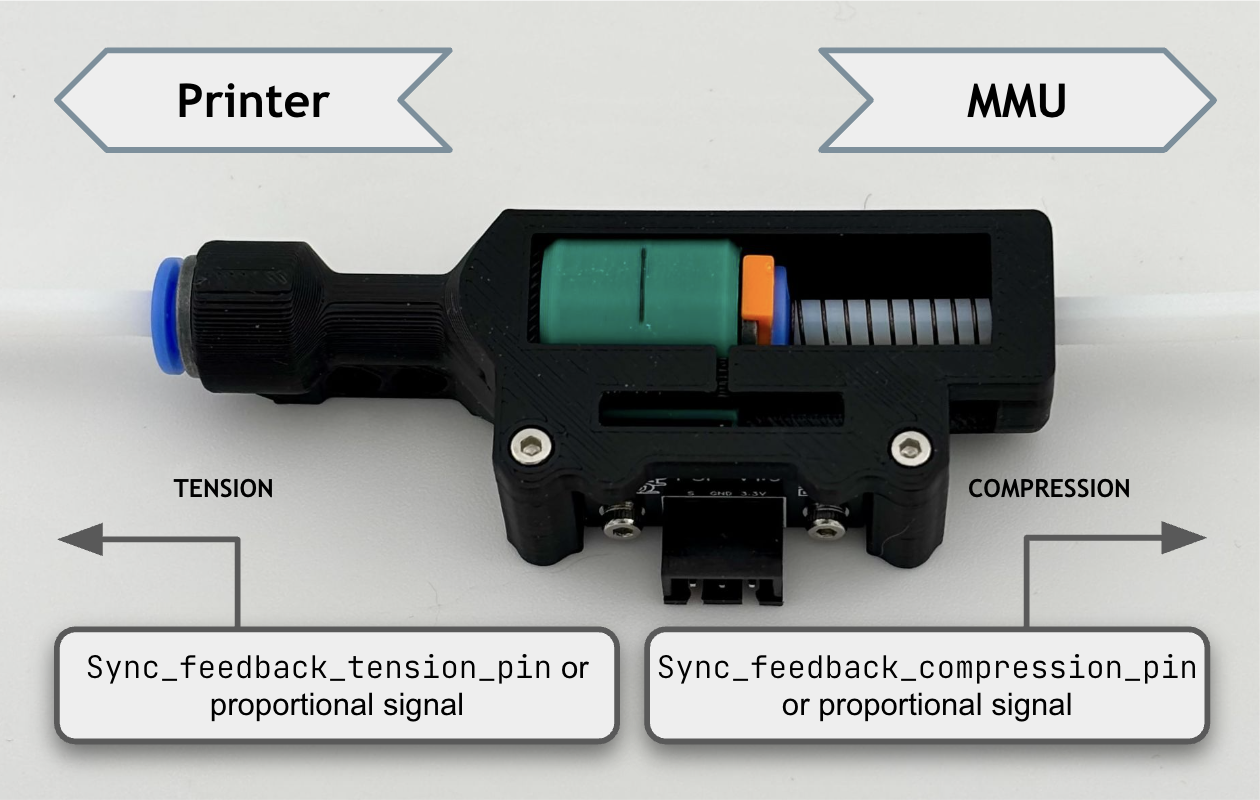
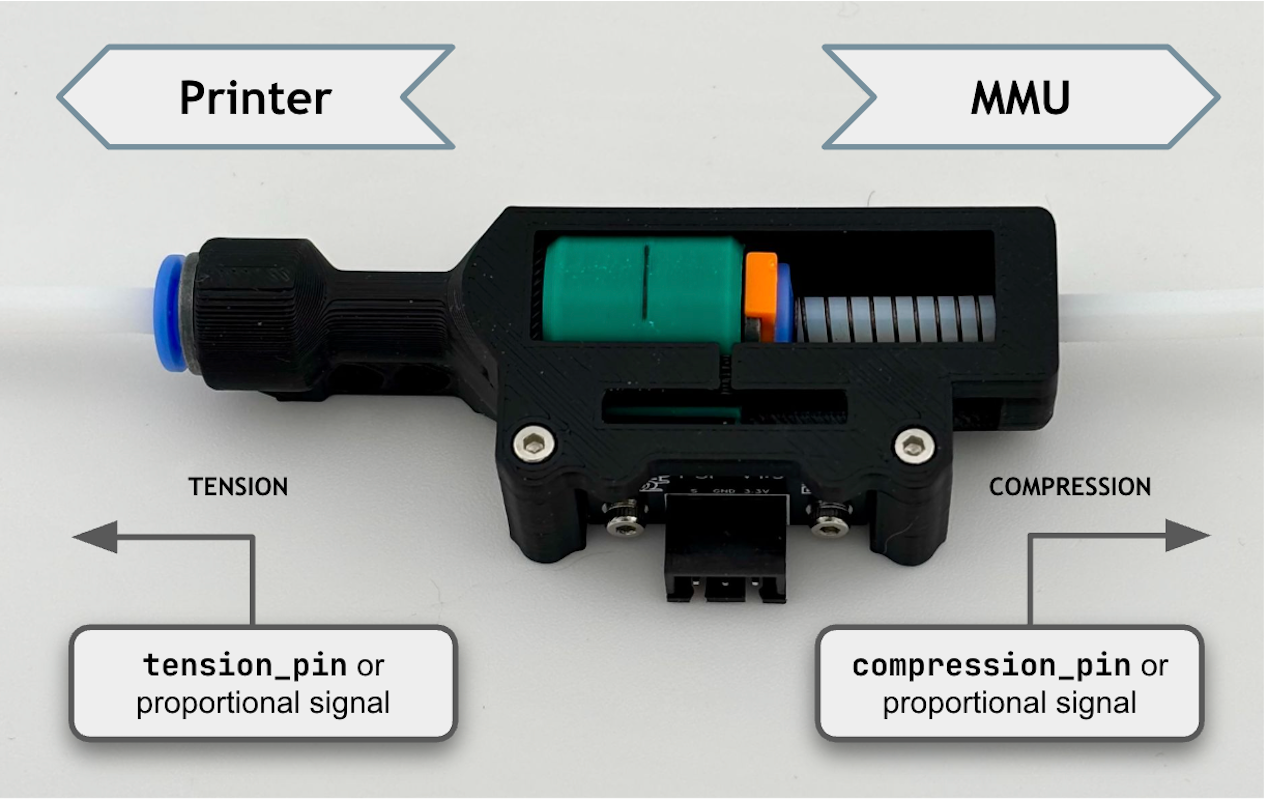
Doc updates
* Enable collapsable admonitions using ??? instead of !!!
* Correct tension/compression parameters in typical-buffer diagram
* Add manual psensor calibration to troubleshooting

diff --git a/doc/Feature-Sync-Feedback-Buffer.md b/doc/Feature-Sync-Feedback-Buffer.md
@@ -33,11 +33,6 @@ supported:
   position, including how far into tension or compression the buffer
   currently sits.
 
-!!! note
-    The pin names above the diagram are from the original design write-up -
-    the current configuration keys are `tension_pin` and `compression_pin`
-    (see [Hardware Setup](#hardware-setup) below).
-
 Which sensor style you have decides how AutoTune corrects things, and which
 of two algorithms it runs:
 
@@ -45,11 +40,11 @@ of two algorithms it runs:
   nudged a fixed % above or below the current rotation-distance estimate,
   and which way the switches respond decides which direction is correct.
   This means a switch sensor's gear speed is *always* oscillating in a
-  small, deliberate back-and-forth, even once AutoTune has converged - that
-  oscillation is how it keeps checking the estimate is still right, not a
+  small, deliberate back-and-forth motion, even once AutoTune has converged -
+  that oscillation is how it keeps checking the estimate is still right, not a
   fault. `sync_feedback_speed_multiplier`/`_boost_multiplier` (see
   [Parameter Setup](#parameter-setup) below) control how wide that
-  back-and-forth is.
+  back-and-forth motion is.
 - **EKF** (Extended Kalman Filter - proportional sensors only): a
   statistical model correlates the sensor's continuous position reading
   with extruder motion to estimate rotation distance directly, with no need
@@ -314,13 +309,14 @@ unit0:filament_proportional --> 0.02 (raw: 0.0064)
 
 The raw value should approach `0` at one extreme and `1` at the other - if
 it barely moves, the pin isn't actually ADC-capable (double check it's not
-a plain digital/endstop pin, the kind normally used for a thermistor).
+a plain digital/endstop pin, the kind normally used for a thermistor or
+if it's an unused diag pin with the jumper still installed).
 
-Once wiring is confirmed,
-[`MMU_CALIBRATE_PSENSOR`](Reference-Commands.md#mmu_calibrate_psensor) does
-the rest automatically - it moves the gear stepper in small increments in
-both directions until the readings plateau at each extreme, then reports
-the values to enter into `mmu_hardware.cfg`:
+Once wiring is confirmed, load filament through to the extruder and run
+[`MMU_CALIBRATE_PSENSOR`](Reference-Commands.md#mmu_calibrate_psensor) to
+automatically calibrate the sensor by moving the gear stepper in small
+increments in both directions until readings plateau at each extreme.
+You need to enter the reported values into `mmu_hardware.cfg`:
 
 ```{.text .console-output}
 > MMU_CALIBRATE_PSENSOR
@@ -359,7 +355,15 @@ plateau at either end.
 - **`MMU_CALIBRATE_PSENSOR` readings barely change during the sweep** -
   confirm the pin is wired to an ADC-capable GPIO (the kind normally used for
   a thermistor), not a standard digital/endstop pin - a proportional sensor
-  simply won't produce useful data on the wrong kind of pin.
+  simply won't produce useful data on the wrong kind of pin. If the pin is a
+  unused stepper diag pin, ensure the jumper is removed.
+- **`MMU_CALIBRATE_PSENSOR` doesn't automatically find the extremes** -
+  Check that filament is loaded, the bowden ECAS fittings are tight, and the
+  filament has enough preload not to slip. If that still fails, hold the
+  shuttle at each extreme and use the `RAW` values from `MMU_SENSORS` to
+  calibrate manually: the MMU-side value is `analog_max_compression`, the
+  other is `analog_max_tension`. Add the two values and divide by 2 to get
+  `analog_neutral_point`.
 - **The gear stepper runs noticeably hot during long prints** - lower
   `sync_gear_current`; it only applies while synced during printing, and
   full current returns automatically for loading and unloading.

diff --git a/doc/Installation.md b/doc/Installation.md
@@ -14,7 +14,7 @@ or [Getting Started with BTT ViViD](GettingStarted-ViViD.md).
 ## Cloning Happy Hare
 
 Log into the machine running Klipper (most commonly a Raspberry Pi) as the user you
-used to install klipper over SSH using PuTTY, KiTTY, MobaXterm or similar utility
+used to install klipper over SSH using PuTTY, KiTTY, MobaXterm, ssh or similar utility
 (e.g. `ssh pi@myprinter.local`), then clone the repository:
 
 ```bash
